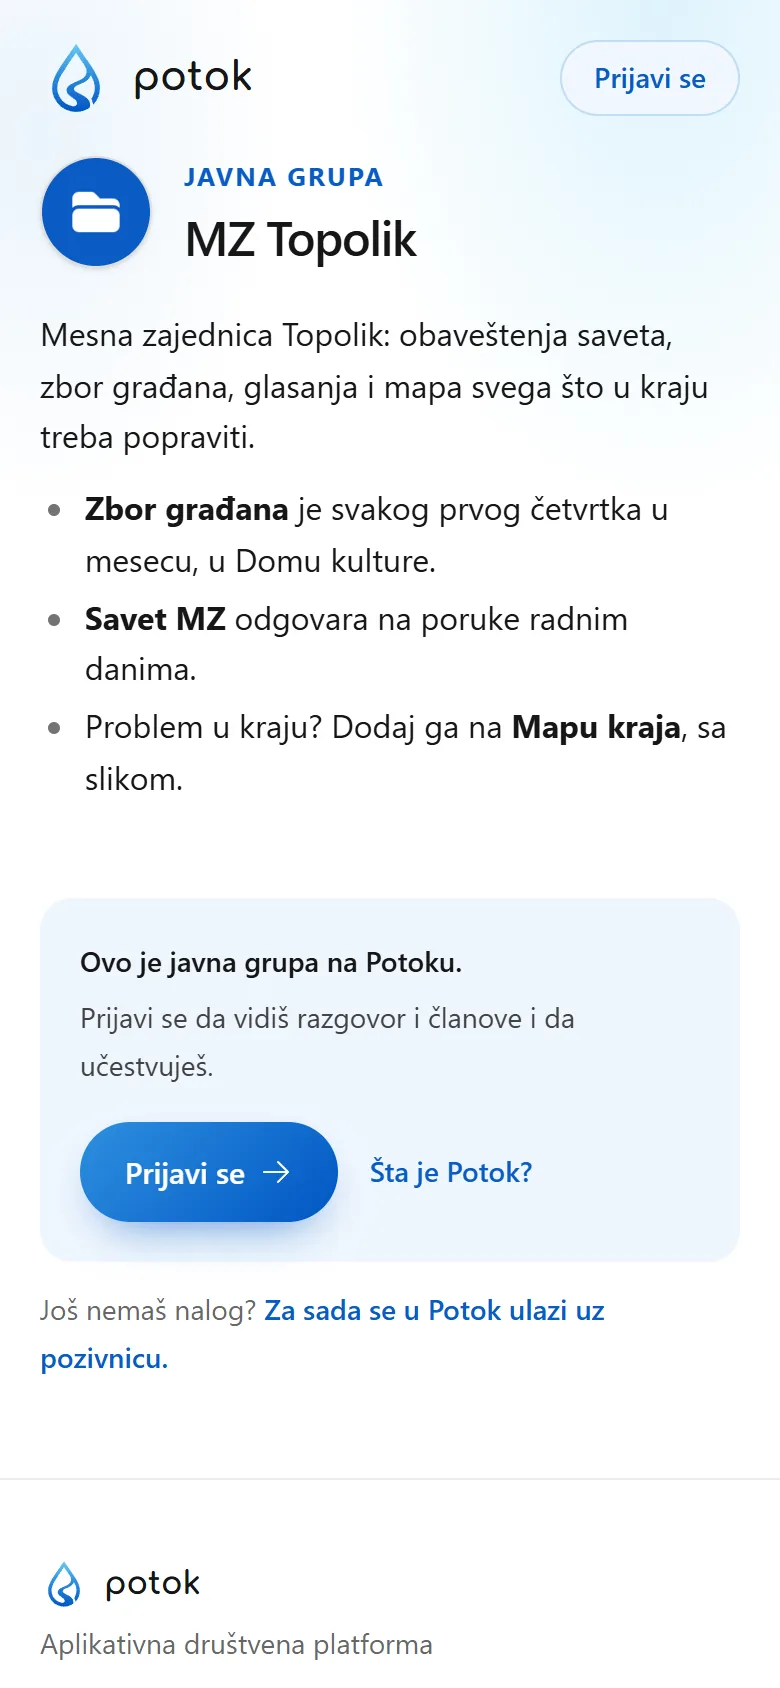
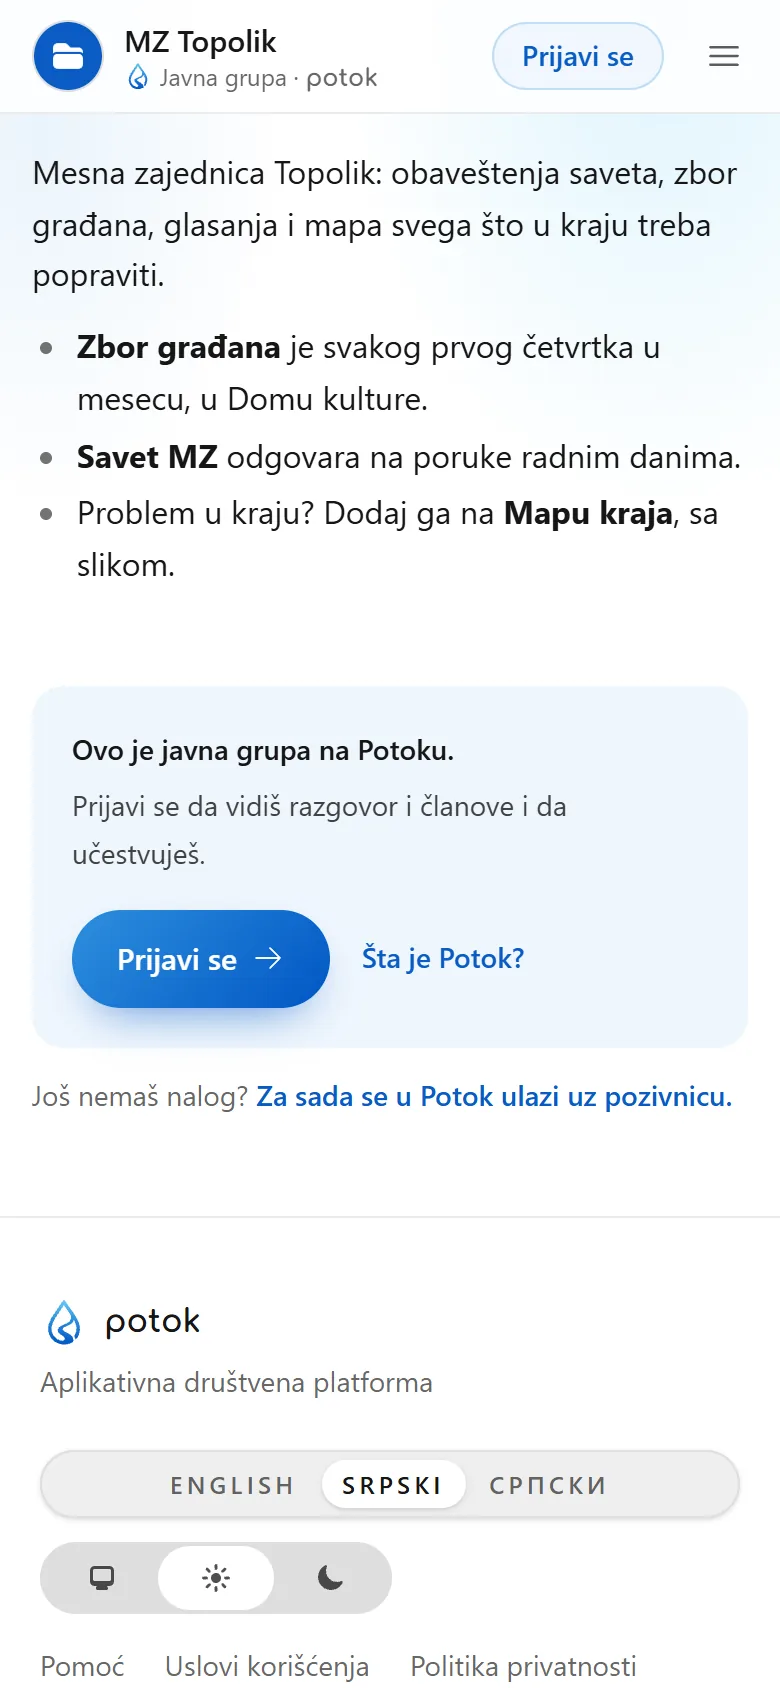
Give a guest on a phone the whole screen for a public group
On a phone, a guest at a public group that opened its description saw
the landing's header, a large header of the group and, for an app, a
framed box with margins inside a page that scrolled too.

Below `sm`, or on a screen shorter than 30rem (`compact:`), one bar
now stands for both headers: the group's picture and name, "Public
group · potok", Log in and a menu. The menu is a popover sheet, so it
needs no script on this page: what Potok is, the invitation, language,
theme and links, and for an app first the note that Potok never asks
for a password inside an app. Log in carries a shield next to an app.

An app takes the screen under the bar edge to edge and is the only
thing that scrolls; the join card and the footer stay with a text,
after it. Wide screens are as before. `Layouts.guest` takes this as a
`phone_bar` slot and a `fill` attribute. The help picture of a guest's
page is taken again.

diff --git a/assets/css/app.css b/assets/css/app.css
@@ -194,6 +194,14 @@
   }
 }
 
+/* A guest's page on a phone, upright or on its side (`Layouts.guest` with a
+   `phone_bar`): one bar of the page's own instead of the landing's header. */
+@custom-variant compact {
+  @media (width < 40rem), (height < 30rem) {
+    @slot;
+  }
+}
+
 /* On wide screens the menu stands at the side until it is hidden
    (`data-sidebar="hidden"` on <html>, kept per device by the script in
    root.html.heex). Phones open it over the page instead. `sidebar-shown:`
@@ -1506,6 +1514,58 @@
     border: 1px solid var(--lp-line);
     border-radius: 1.5rem;
     background: var(--color-base-100);
+  }
+
+  /* The menu of a guest's bar on a phone (`public_group_page`): a sheet from
+     the bottom. It is a popover, so it opens in the top layer, over an app's
+     frame, and closes at a tap beside it, with no script on the page. */
+  .lp-sheet {
+    inset: auto 0 0 0;
+    width: 100%;
+    max-width: none;
+    max-height: 85dvh;
+    margin: 0;
+    overflow-y: auto;
+    overscroll-behavior: contain;
+    border: 1px solid var(--lp-line);
+    border-bottom: 0;
+    border-radius: 1.5rem 1.5rem 0 0;
+    padding: 0 0 calc(0.75rem + var(--app-safe-area-bottom)) 0;
+    background: var(--color-base-100);
+    color: var(--color-base-content);
+    box-shadow: 0 -24px 48px -28px rgb(0 0 0 / 0.4);
+    transition: transform 240ms cubic-bezier(0.2, 0.7, 0.2, 1);
+  }
+
+  @starting-style {
+    .lp-sheet:popover-open {
+      transform: translateY(100%);
+    }
+  }
+
+  .lp-sheet::backdrop {
+    background: rgb(0 0 0 / 0.35);
+    backdrop-filter: blur(2px);
+  }
+
+  /* A row of that menu, a link or a line of text with its icon. */
+  .lp-sheet-row {
+    display: flex;
+    align-items: center;
+    gap: 0.75rem;
+    border-radius: 1rem;
+    padding: 0.625rem 0.75rem;
+    font-size: 0.875rem;
+    font-weight: 500;
+    transition: background-color 150ms ease, transform 150ms ease;
+  }
+
+  a.lp-sheet-row:hover {
+    background: color-mix(in oklab, var(--color-base-content) 5%, transparent);
+  }
+
+  a.lp-sheet-row:active {
+    transform: scale(0.99);
   }
 
   .lp-waves path {
